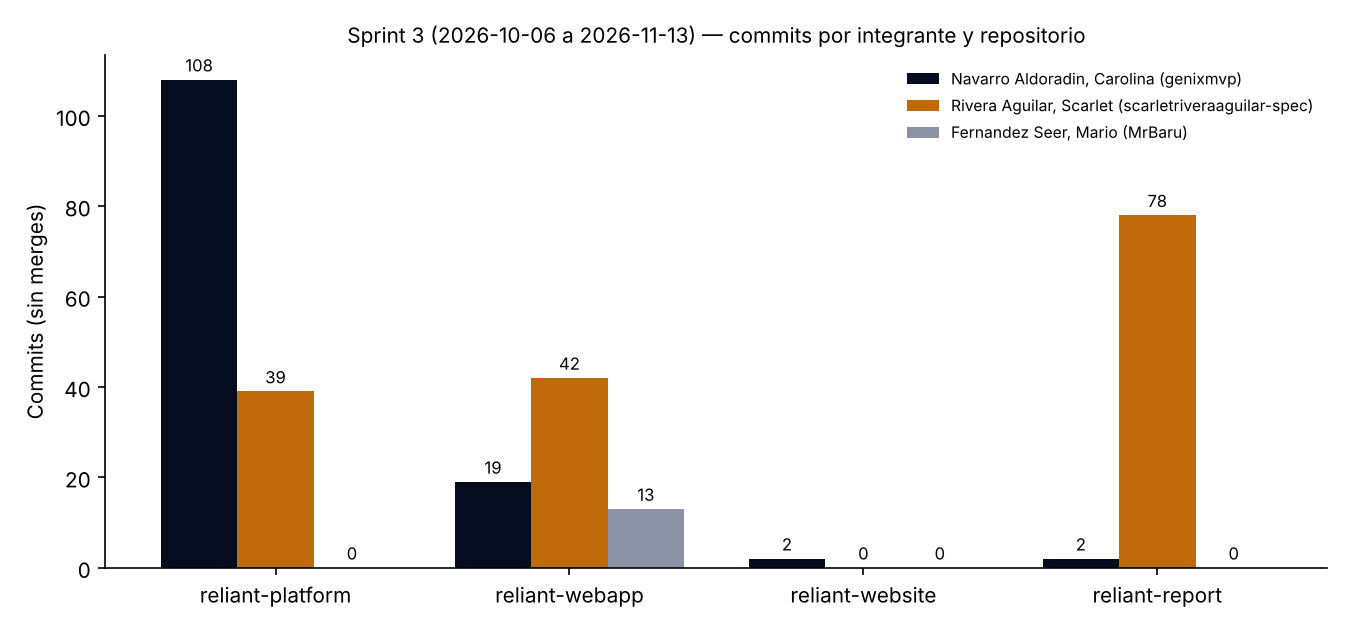
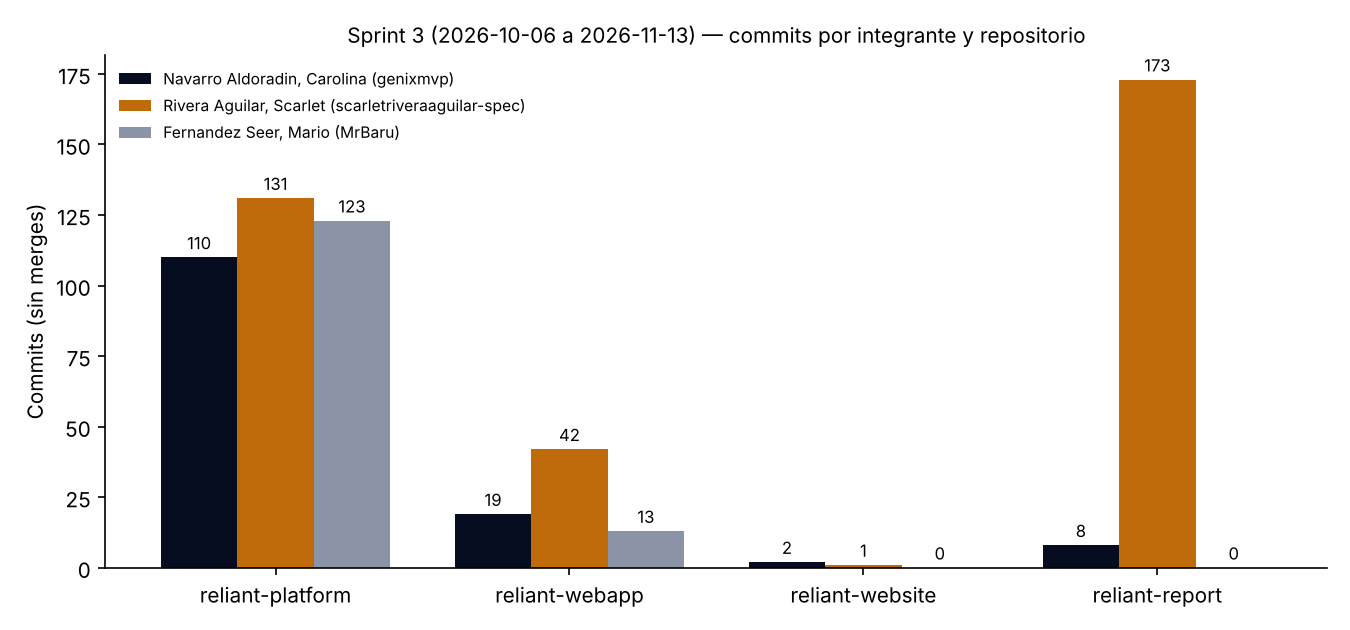
docs(report): include the whole team's Sprint 3 commits in development evidence and collaboration insights

diff --git a/README.md b/README.md
@@ -4161,7 +4161,7 @@ En esta sección se presentan los commits realizados durante el Sprint 3 en los 
 
 | Repositorio | Release del Sprint 3 | Etiqueta | Ramas |
 |---|---|---|---|
-| `reliant-platform` | 1.0.0 — primera versión de los Web Services | `v1.0.0` | `main`, `develop`, `release/1.0.0`, 15 ramas `feature/*` |
+| `reliant-platform` | 1.0.0 — primera versión de los Web Services | `v1.0.0` | `main`, `develop`, `release/1.0.0`, `hotfix/azure-workflow`, 15 ramas `feature/*` (con pull requests de los tres integrantes) |
 | `reliant-webapp` | 2.0.0 — Web Application conectada a los Web Services | `2.0.0` | `main`, `develop`, `release/2.0.0`, 8 ramas `feature/*`, `fix/footer-overlap` |
 | `reliant-website` | 2.1.0 — rediseño del Landing Page | `2.1.0` | `main`, `develop`, `release/2.1.0`, `feature/update-landing-page`, `feature/merge-scarlet-design` |
 
@@ -4261,6 +4261,182 @@ En esta sección se presentan los commits realizados durante el Sprint 3 en los 
 | reliant-platform | develop | ca526ee | feat(equipment): add hvof system resource from entity assembler. |  | 2026-11-06 |
 | reliant-platform | develop | 91e8034 | feat(equipment): add hvof systems controller. |  | 2026-11-06 |
 | reliant-platform | develop | 2f6e9f0 | Complete HVOF subsystems and controllers integration |  | 2026-11-06 |
+| reliant-platform | develop | 1d71e59 | feat(iam): add roles enum, role entity, seed roles command and role repository port. |  | 2026-11-07 |
+| reliant-platform | develop | ee99048 | feat(iam): add roles enum, role entity, seed roles command and role repository port. |  | 2026-11-07 |
+| reliant-platform | develop | ae1b48c | feat(iam): add role persistence repository. |  | 2026-11-07 |
+| reliant-platform | develop | 82832a1 | feat(iam): add role repository implementation. |  | 2026-11-07 |
+| reliant-platform | develop | 7b53753 | feat(iam): add role command service. |  | 2026-11-07 |
+| reliant-platform | develop | 654106c | feat(iam): add role command service implementation. |  | 2026-11-07 |
+| reliant-platform | develop | f10695c | feat(iam): add application ready event handler. |  | 2026-11-07 |
+| reliant-platform | develop | 52e5842 | build: add spring security crypto dependency. |  | 2026-11-07 |
+| reliant-platform | develop | c31cfab | feat(iam): add hashing service. |  | 2026-11-07 |
+| reliant-platform | develop | 7829c6c | feat(iam): add hashing service implementation. |  | 2026-11-07 |
+| reliant-platform | develop | fd6512f | feat(iam): add email address value object. |  | 2026-11-07 |
+| reliant-platform | develop | 427b56c | feat(iam): add ruc value object. |  | 2026-11-07 |
+| reliant-platform | develop | ace63a7 | feat(iam): add organization type value object. |  | 2026-11-07 |
+| reliant-platform | develop | 3180903 | feat(iam): add organization status value object. |  | 2026-11-07 |
+| reliant-platform | develop | ce31673 | feat(iam): add user status value object. |  | 2026-11-07 |
+| reliant-platform | develop | 3100856 | feat(iam): add organization registered event. |  | 2026-11-07 |
+| reliant-platform | develop | 71ccd03 | feat(iam): add user signed up event. |  | 2026-11-07 |
+| reliant-platform | develop | bb1a1ec | feat(iam): add organization aggregate. |  | 2026-11-07 |
+| reliant-platform | develop | 905843e | feat(iam): add user aggregate. |  | 2026-11-07 |
+| reliant-platform | develop | 5a6462b | feat(iam): add sign up command. |  | 2026-11-07 |
+| reliant-platform | develop | 3e64f7c | feat(iam): add organization repository port. |  | 2026-11-07 |
+| reliant-platform | develop | 86a32c3 | feat(iam): add user repository port. |  | 2026-11-07 |
+| reliant-platform | develop | c4c5723 | feat(iam): add email address persistence converter. |  | 2026-11-07 |
+| reliant-platform | develop | df937d1 | feat(iam): add ruc persistence converter. |  | 2026-11-07 |
+| reliant-platform | develop | c0fa06c | feat(iam): add organization persistence entity. |  | 2026-11-07 |
+| reliant-platform | develop | 74cdbac | feat(iam): add user persistence entity. |  | 2026-11-07 |
+| reliant-platform | develop | 39dae1b | feat(iam): add organization persistence assembler. |  | 2026-11-07 |
+| reliant-platform | develop | 2b3fb3f | feat(iam): add user persistence assembler. |  | 2026-11-07 |
+| reliant-platform | develop | b3b486b | feat(iam): add organization persistence repository. |  | 2026-11-07 |
+| reliant-platform | develop | ffe7d41 | feat(iam): add user persistence repository. |  | 2026-11-07 |
+| reliant-platform | develop | ad43892 | feat(iam): add organization repository implementation. |  | 2026-11-07 |
+| reliant-platform | develop | 2067e9a | feat(iam): add user repository implementation. |  | 2026-11-07 |
+| reliant-platform | develop | 1e59b08 | feat(iam): add user command service. |  | 2026-11-07 |
+| reliant-platform | develop | e1c46b8 | feat(iam): add user command service implementation. |  | 2026-11-07 |
+| reliant-platform | develop | 05b3f99 | feat(iam): add sign up resource. |  | 2026-11-07 |
+| reliant-platform | develop | a1ff53e | feat(iam): add role resource. |  | 2026-11-07 |
+| reliant-platform | develop | 4307e0b | feat(iam): add user resource. |  | 2026-11-07 |
+| reliant-platform | develop | 5b7c511 | feat(iam): add sign up command resource assembler. |  | 2026-11-07 |
+| reliant-platform | develop | d4a1fbe | feat(iam): add role resource assembler. |  | 2026-11-07 |
+| reliant-platform | develop | a3854bf | feat(iam): add user resource assembler. |  | 2026-11-07 |
+| reliant-platform | develop | f78b287 | feat(iam): add application ready event handler. |  | 2026-11-07 |
+| reliant-platform | develop | d1d3f2c | feat(iam): add users controller. |  | 2026-11-07 |
+| reliant-platform | develop | 81bbb52 | feat(iam): add sign up message keys. |  | 2026-11-07 |
+| reliant-platform | develop | a8a4085 | feat(iam): add sign up Spanish message keys. |  | 2026-11-07 |
+| reliant-platform | develop | 81b731d | feat(iam): add sign up Spanish message keys. |  | 2026-11-07 |
+| reliant-platform | develop | 242fdd5 | feat(iam): add get all roles query. |  | 2026-11-07 |
+| reliant-platform | develop | b635865 | feat(iam): add role query service. |  | 2026-11-07 |
+| reliant-platform | develop | bc68a1a | feat(iam): add role query service implementation. |  | 2026-11-07 |
+| reliant-platform | develop | 90b03b5 | feat(iam): add roles controller. |  | 2026-11-07 |
+| reliant-platform | develop | 6d5d0c3 | build: add commons lang3 dependency. |  | 2026-11-07 |
+| reliant-platform | develop | 45bbeba | feat(iam): add token service. |  | 2026-11-07 |
+| reliant-platform | develop | 72fe2ae | feat(iam): add token service implementation. |  | 2026-11-07 |
+| reliant-platform | develop | cf59b89 | feat(iam): add sign in command. |  | 2026-11-07 |
+| reliant-platform | develop | ef9158e | feat(iam): add sign in command to user command service. |  | 2026-11-07 |
+| reliant-platform | develop | 738aba9 | feat(iam): add sign in command handling. |  | 2026-11-07 |
+| reliant-platform | develop | 2907da3 | feat(iam): add get organization by id query. |  | 2026-11-07 |
+| reliant-platform | develop | b5c895a | feat(iam): add organization query service interface. |  | 2026-11-07 |
+| reliant-platform | develop | 8797a15 | feat(iam): add organization query service implementation. |  | 2026-11-07 |
+| reliant-platform | develop | 80d5958 | feat(iam): add sign in resource. |  | 2026-11-07 |
+| reliant-platform | develop | cb751ea | feat(iam): add role id resource. |  | 2026-11-07 |
+| reliant-platform | develop | 8c4b9e0 | feat(iam): add authenticated user resource. |  | 2026-11-07 |
+| reliant-platform | develop | 812c269 | feat(iam): add sign in command assembler. |  | 2026-11-07 |
+| reliant-platform | develop | f2770db | feat(iam): add authenticated user resource assembler. |  | 2026-11-07 |
+| reliant-platform | develop | a235340 | feat(iam): add tokens controller. |  | 2026-11-07 |
+| reliant-platform | develop | ec6e89d | feat(iam): add get all users by organization query. |  | 2026-11-07 |
+| reliant-platform | develop | 61b4e61 | feat(iam): add get user by id query. |  | 2026-11-07 |
+| reliant-platform | develop | db33fbb | feat(iam): add get user by email query. |  | 2026-11-07 |
+| reliant-platform | develop | d8527ee | feat(iam): add assign roles to user command. |  | 2026-11-07 |
+| reliant-platform | develop | 3b4d198 | feat(iam): add user query service interface. |  | 2026-11-07 |
+| reliant-platform | develop | 3fd2eb5 | feat(iam): add user query service implementation. |  | 2026-11-07 |
+| reliant-platform | develop | fde2576 | feat(iam): add assign roles command handling. |  | 2026-11-07 |
+| reliant-platform | develop | 935b025 | feat(iam): add assign roles resource and assembler. |  | 2026-11-07 |
+| reliant-platform | develop | 9bdb189 | feat(iam): add list, get by id and assign roles endpoints to users controller. |  | 2026-11-07 |
+| reliant-platform | develop | 32da629 | feat(iam): add user not found message keys. |  | 2026-11-07 |
+| reliant-platform | develop | 29694b6 | build: enable spring security starter. |  | 2026-11-07 |
+| reliant-platform | develop | 7a3a137 | build: enable spring security starter. |  | 2026-11-07 |
+| reliant-platform | develop | cb5c1af | feat(shared): enable bearer auth security scheme in openapi configuration. |  | 2026-11-07 |
+| reliant-platform | develop | b878054 | feat(iam): add bcrypt hashing service contract. |  | 2026-11-07 |
+| reliant-platform | develop | 70b449e | feat(iam): add bearer token service contract and http helpers. |  | 2026-11-07 |
+| reliant-platform | develop | 8767aa5 | feat(iam): add user details model and service. |  | 2026-11-07 |
+| reliant-platform | develop | abe26a6 | feat(iam): add user details model and service. |  | 2026-11-07 |
+| reliant-platform | develop | 937103a | feat(iam): add authentication token builder and unauthorized entry point. |  | 2026-11-07 |
+| reliant-platform | develop | a0b057f | feat(iam): add bearer authorization request filter. |  | 2026-11-07 |
+| reliant-platform | develop | 0e2cc80 | feat(iam): add web security configuration. |  | 2026-11-07 |
+| reliant-platform | develop | 613889e | feat(iam): require bearer token on protected endpoints and admin role on user management. |  | 2026-11-07 |
+| reliant-platform | develop | c3f87fa | feat(iam): require bearer token on protected endpoints and admin role on user management. |  | 2026-11-07 |
+| reliant-platform | develop | e2f98a9 | feat(iam): require bearer token on protected endpoints and admin role on user management. |  | 2026-11-07 |
+| reliant-platform | develop | 57f71aa | feat(iam): add authenticated user endpoint. |  | 2026-11-07 |
+| reliant-platform | develop | cf77900 | feat(shared): add current user context contract. |  | 2026-11-07 |
+| reliant-platform | develop | d6d6291 | feat(iam): add current user provider as acl for other bounded contexts. |  | 2026-11-07 |
+| reliant-platform | develop | ce56a28 | feat(shared): map access denied to a 403 problem detail. |  | 2026-11-07 |
+| reliant-platform | develop | 3fd0caa | fix(shared): finalize access denied exception handling. |  | 2026-11-07 |
+| reliant-platform | develop | b7f8b54 | feat(traceability): add customer RUC value object |  | 2026-11-08 |
+| reliant-platform | develop | 2f859af | feat(traceability): add customer ID value object |  | 2026-11-08 |
+| reliant-platform | develop | e8eaf27 | feat(traceability): add customer registration command |  | 2026-11-08 |
+| reliant-platform | develop | 61a7fc7 | feat(traceability): add customer update command |  | 2026-11-08 |
+| reliant-platform | develop | 432a036 | feat(traceability): add customer aggregate and registration event |  | 2026-11-08 |
+| reliant-platform | develop | 7dbff73 | feat(traceability): add customer lookup query |  | 2026-11-08 |
+| reliant-platform | develop | 0a3c578 | feat(traceability): add supplier customer query |  | 2026-11-08 |
+| reliant-platform | develop | 70abcf1 | feat(traceability): add linked asset owner customer query |  | 2026-11-08 |
+| reliant-platform | develop | ac34649 | feat(traceability): add customer repository port |  | 2026-11-08 |
+| reliant-platform | develop | 3e7ae6f | feat(traceability): add RUC persistence converter |  | 2026-11-08 |
+| reliant-platform | develop | f8dbb82 | feat(traceability): add customer ID persistence converter |  | 2026-11-08 |
+| reliant-platform | develop | edd503b | feat(traceability): add customer persistence entity |  | 2026-11-08 |
+| reliant-platform | develop | 01cfefb | feat(traceability): add customer persistence assembler |  | 2026-11-08 |
+| reliant-platform | develop | 2322000 | feat(traceability): add customer JPA repository |  | 2026-11-08 |
+| reliant-platform | develop | 85bba79 | feat(traceability): add customer repository adapter |  | 2026-11-08 |
+| reliant-platform | develop | ab4bcf7 | feat(traceability): add customer query service |  | 2026-11-08 |
+| reliant-platform | develop | 57e484f | feat(traceability): implement customer query service |  | 2026-11-08 |
+| reliant-platform | develop | d7b9a60 | feat(traceability): add customer command service |  | 2026-11-08 |
+| reliant-platform | develop | d29249b | feat(traceability): implement customer command service |  | 2026-11-08 |
+| reliant-platform | develop | f9cc85f | feat(traceability): add customer registration request |  | 2026-11-08 |
+| reliant-platform | develop | fee1cc5 | feat(traceability): add customer update request |  | 2026-11-08 |
+| reliant-platform | develop | 3d8c02e | feat(traceability): add customer response resource |  | 2026-11-08 |
+| reliant-platform | develop | d1cabf3 | feat(traceability): add customer registration assembler |  | 2026-11-08 |
+| reliant-platform | develop | 88bfa04 | feat(traceability): add customer update assembler |  | 2026-11-08 |
+| reliant-platform | develop | 7fc694c | feat(traceability): add customer response assembler |  | 2026-11-08 |
+| reliant-platform | develop | 13ec9a9 | feat(traceability): add customers REST controller |  | 2026-11-08 |
+| reliant-platform | develop | 6cb8562 | feat(traceability): add English customer messages |  | 2026-11-08 |
+| reliant-platform | develop | 3e3390b | feat(traceability): add Spanish customer messages |  | 2026-11-08 |
+| reliant-platform | develop | 412b254 | fix(traceability): correct RUC value object syntax |  | 2026-11-08 |
+| reliant-platform | develop | ff28054 | feat(traceability): add recovered component types |  | 2026-11-08 |
+| reliant-platform | develop | bce2e8c | feat(traceability): add recovered component statuses |  | 2026-11-08 |
+| reliant-platform | develop | d24d850 | feat(traceability): add component registration command |  | 2026-11-08 |
+| reliant-platform | develop | 7347fd8 | feat(traceability): add recovered component aggregate and registration event |  | 2026-11-08 |
+| reliant-platform | develop | 158deec | feat(traceability): add component lookup query |  | 2026-11-08 |
+| reliant-platform | develop | 3d0ab71 | feat(traceability): add components by customer query |  | 2026-11-08 |
+| reliant-platform | develop | 610f007 | feat(traceability): add recovered component repository port |  | 2026-11-08 |
+| reliant-platform | develop | c203fd6 | feat(traceability): add recovered component persistence entity |  | 2026-11-08 |
+| reliant-platform | develop | 4a5552c | feat(traceability): add recovered component persistence assembler |  | 2026-11-08 |
+| reliant-platform | develop | 32c198e | feat(traceability): add recovered component JPA repository |  | 2026-11-08 |
+| reliant-platform | develop | 65706c9 | feat(traceability): add recovered component repository adapter |  | 2026-11-08 |
+| reliant-platform | develop | 626485f | feat(traceability): add component command service |  | 2026-11-08 |
+| reliant-platform | develop | e78e9e2 | feat(traceability): implement component command service |  | 2026-11-08 |
+| reliant-platform | develop | 6eb1edb | feat(traceability): add component query service |  | 2026-11-08 |
+| reliant-platform | develop | 4fa7e52 | feat(traceability): implement component query service |  | 2026-11-08 |
+| reliant-platform | develop | 12a903d | feat(traceability): add component registration request |  | 2026-11-08 |
+| reliant-platform | develop | 6d227d4 | feat(traceability): add component response resource |  | 2026-11-08 |
+| reliant-platform | develop | 20a73c6 | feat(traceability): add component registration assembler |  | 2026-11-08 |
+| reliant-platform | develop | 3c481ff | feat(traceability): add component response assembler |  | 2026-11-08 |
+| reliant-platform | develop | da23cfc | feat(traceability): add components REST controller |  | 2026-11-08 |
+| reliant-platform | develop | febd1df | feat(traceability): add localized component error messages |  | 2026-11-08 |
+| reliant-platform | develop | 8797544 | feat(traceability): add work order number value object |  | 2026-11-10 |
+| reliant-platform | develop | 05080a9 | feat(traceability): add component ID value object |  | 2026-11-10 |
+| reliant-platform | develop | 43d08a7 | feat(traceability): add recuperation statuses |  | 2026-11-10 |
+| reliant-platform | develop | 0bb7446 | feat(traceability): add open recuperation command |  | 2026-11-10 |
+| reliant-platform | develop | d8c6c7a | feat(traceability): add complete recuperation command |  | 2026-11-10 |
+| reliant-platform | develop | 6c4ef12 | feat(traceability): add link session to recuperation command |  | 2026-11-10 |
+| reliant-platform | develop | f04bae0 | feat(traceability): add recuperation aggregate and lifecycle events |  | 2026-11-10 |
+| reliant-platform | develop | ebac156 | feat(traceability): add recuperation lookup query |  | 2026-11-10 |
+| reliant-platform | develop | 8c8b95c | feat(traceability): add supplier recuperations query |  | 2026-11-10 |
+| reliant-platform | develop | 1e32f81 | feat(traceability): add customer recuperations query |  | 2026-11-10 |
+| reliant-platform | develop | 2bdc0ce | feat(traceability): add recuperation repository port |  | 2026-11-10 |
+| reliant-platform | develop | a6f0e74 | feat(traceability): add work order number persistence converter |  | 2026-11-10 |
+| reliant-platform | develop | 0bc6ce2 | feat(traceability): add component ID persistence converter |  | 2026-11-10 |
+| reliant-platform | develop | 4b54282 | feat(traceability): add recuperation persistence entity |  | 2026-11-10 |
+| reliant-platform | develop | 4b5bdc5 | feat(traceability): add recuperation persistence assembler |  | 2026-11-10 |
+| reliant-platform | develop | b2f2590 | feat(traceability): add recuperation JPA repository |  | 2026-11-10 |
+| reliant-platform | develop | 9160035 | feat(traceability): add recuperation repository adapter |  | 2026-11-10 |
+| reliant-platform | develop | 1393d10 | feat(traceability): add recuperation command service |  | 2026-11-10 |
+| reliant-platform | develop | 2cfbe0f | feat(traceability): implement recuperation command service |  | 2026-11-10 |
+| reliant-platform | develop | 93ede86 | feat(traceability): add recuperation query service |  | 2026-11-10 |
+| reliant-platform | develop | 7a3ab4b | feat(traceability): implement recuperation query service |  | 2026-11-10 |
+| reliant-platform | develop | b50a375 | feat(traceability): add traceability context facade |  | 2026-11-10 |
+| reliant-platform | develop | fa582bc | feat(traceability): implement traceability context facade |  | 2026-11-10 |
+| reliant-platform | develop | ef67cfb | feat(traceability): add open recuperation request |  | 2026-11-10 |
+| reliant-platform | develop | 9bbf81f | feat(traceability): add linked session resource |  | 2026-11-10 |
+| reliant-platform | develop | 4725cf0 | feat(traceability): add recuperation response resource |  | 2026-11-10 |
+| reliant-platform | develop | f3975af | feat(traceability): add open recuperation assembler |  | 2026-11-10 |
+| reliant-platform | develop | 6e5bdb5 | feat(traceability): add recuperation response assembler |  | 2026-11-10 |
+| reliant-platform | develop | abde862 | feat(traceability): add recuperations REST controller |  | 2026-11-10 |
+| reliant-platform | develop | 10a77e8 | feat(traceability): add localized recuperation error messages |  | 2026-11-10 |
+| reliant-platform | develop | 550fee0 | feat(equipment): add recipe band snapshot |  | 2026-11-11 |
+| reliant-platform | develop | 7676db7 | feat(equipment): add equipment context facade |  | 2026-11-11 |
+| reliant-platform | develop | 3923efe | feat(equipment): implement equipment context facade |  | 2026-11-11 |
+| reliant-platform | develop | 433a885 | fix(equipment): use unit category conversion in context facade |  | 2026-11-11 |
 | reliant-platform | develop | e769426 | chore(equipment): keep the datasource in the dev profile and drop the review notes. |  | 2026-11-11 |
 | reliant-platform | develop | 7832aa2 | build: add spring security crypto dependency. |  | 2026-11-11 |
 | reliant-platform | develop | ff90eb7 | feat(iam): add organization, user and role domain model with sign-up and seed roles commands. |  | 2026-11-11 |
@@ -4314,8 +4490,49 @@ En esta sección se presentan los commits realizados durante el Sprint 3 en los 
 | reliant-platform | develop | 896afb2 | feat(reporting): add JPA persistence for report templates and generated reports |  | 2026-11-12 |
 | reliant-platform | develop | 27e8634 | feat(reporting): add report template and generated report services with default templates |  | 2026-11-12 |
 | reliant-platform | develop | ed08f36 | feat(reporting): expose report templates and generated reports endpoints |  | 2026-11-12 |
+| reliant-platform | develop | b15afc2 | feat(processmonitoring): add spray session value objects and recipe band classification |  | 2026-11-12 |
+| reliant-platform | develop | 843d756 | feat(processmonitoring): add spray pass and process reading entities |  | 2026-11-12 |
+| reliant-platform | develop | 234a562 | feat(processmonitoring): add spray session and reading commands |  | 2026-11-12 |
+| reliant-platform | develop | d12b18e | feat(processmonitoring): add spray session aggregate and domain events |  | 2026-11-12 |
+| reliant-platform | develop | 20b9a21 | feat(processmonitoring): add spray session queries and repository ports |  | 2026-11-12 |
+| reliant-platform | develop | 24e5433 | feat(processmonitoring): add HVOF system ID persistence converter |  | 2026-11-12 |
+| reliant-platform | develop | 4e39d03 | feat(processmonitoring): add recuperation ID persistence converter |  | 2026-11-12 |
+| reliant-platform | develop | 81c2661 | feat(processmonitoring): map recipe band snapshots for persistence |  | 2026-11-12 |
+| reliant-platform | develop | 69e3966 | feat(processmonitoring): map spray session and pass entities |  | 2026-11-12 |
+| reliant-platform | develop | cb93547 | feat(processmonitoring): map process reading entity |  | 2026-11-12 |
+| reliant-platform | develop | 3cac321 | feat(processmonitoring): map spray sessions and passes between domain and JPA |  | 2026-11-12 |
+| reliant-platform | develop | de1c4f5 | feat(processmonitoring): map process readings between domain and JPA |  | 2026-11-12 |
+| reliant-platform | develop | 913e879 | feat(processmonitoring): add Spring Data repositories for sessions and readings |  | 2026-11-12 |
+| reliant-platform | develop | 311c48e | feat(processmonitoring): implement spray session repository |  | 2026-11-12 |
+| reliant-platform | develop | 0feb4bd | feat(processmonitoring): implement process reading repository |  | 2026-11-12 |
+| reliant-platform | develop | 2e888ab | feat(processmonitoring): add equipment integration service |  | 2026-11-12 |
+| reliant-platform | develop | 08d3c9d | feat(processmonitoring): add traceability integration service |  | 2026-11-12 |
+| reliant-platform | develop | f3e2192 | feat(processmonitoring): add out-of-band reading integration event |  | 2026-11-12 |
+| reliant-platform | develop | 5eeb901 | feat(processmonitoring): publish out-of-band reading integration event |  | 2026-11-12 |
+| reliant-platform | develop | 72e89bb | feat(processmonitoring): add spray session command service |  | 2026-11-12 |
+| reliant-platform | develop | 54c08a2 | feat(processmonitoring): implement spray session commands |  | 2026-11-12 |
+| reliant-platform | develop | bb590c9 | feat(processmonitoring): add spray session query service |  | 2026-11-12 |
+| reliant-platform | develop | 696c4a9 | feat(processmonitoring): implement spray session queries |  | 2026-11-12 |
+| reliant-platform | develop | 06eaa46 | feat(processmonitoring): add start spray session request |  | 2026-11-12 |
+| reliant-platform | develop | 03be963 | feat(processmonitoring): add abort spray session request |  | 2026-11-12 |
+| reliant-platform | develop | dea377f | feat(processmonitoring): add spray session response |  | 2026-11-12 |
+| reliant-platform | develop | 11f848d | feat(processmonitoring): add process reading request |  | 2026-11-12 |
+| reliant-platform | develop | 2938141 | feat(processmonitoring): add process reading response |  | 2026-11-12 |
+| reliant-platform | develop | ac439f0 | feat(processmonitoring): add register spray pass request |  | 2026-11-12 |
+| reliant-platform | develop | 7df2199 | feat(processmonitoring): add spray pass response |  | 2026-11-12 |
+| reliant-platform | develop | 04e530d | feat(processmonitoring): add deviation counts response |  | 2026-11-12 |
+| reliant-platform | develop | fda1c49 | feat(processmonitoring): map start spray session requests |  | 2026-11-12 |
+| reliant-platform | develop | dc9bf4f | feat(processmonitoring): map spray session responses |  | 2026-11-12 |
+| reliant-platform | develop | 38c07e8 | feat(processmonitoring): map process reading ingestion requests |  | 2026-11-12 |
+| reliant-platform | develop | d0719d0 | feat(processmonitoring): map process reading responses |  | 2026-11-12 |
+| reliant-platform | develop | 7d35195 | feat(processmonitoring): map register spray pass requests |  | 2026-11-12 |
+| reliant-platform | develop | 127758b | feat(processmonitoring): map spray pass responses |  | 2026-11-12 |
+| reliant-platform | develop | 3d43f10 | feat(processmonitoring): expose spray session monitoring endpoints |  | 2026-11-12 |
+| reliant-platform | develop | e9e0215 | feat(processmonitoring): add localized spray session error messages |  | 2026-11-12 |
 | reliant-platform | develop | 62ad123 | chore(release): 1.0.0 with production profile for Azure and updated documentation |  | 2026-11-13 |
 | reliant-platform | develop | 188fced | docs: add the Azure App Service deployment guide |  | 2026-11-13 |
+| reliant-platform | develop | 2903385 | Add or update the Azure App Service build and deployment workflow config |  | 2026-11-13 |
+| reliant-platform | develop | d380070 | ci: skip tests in the Azure build workflow and update setup-java |  | 2026-11-13 |
 
 **Frontend Web Application — `reliant-webapp`**
 
@@ -4509,7 +4726,7 @@ En el Sprint 3 se desplegaron en Microsoft Azure los Web Services (Web App `reli
 
 #### 5.2.3.8. Team Collaboration Insights during Sprint.
 
-Durante el Sprint 3 el trabajo se distribuyó según la matriz LACX de la sección 5.2.3.2 y, a diferencia del Sprint 2, los tres integrantes registraron commits en los repositorios de producto. Navarro Aldoradin, Carolina Celeste construyó los bounded contexts IAM, Traceability, Process Monitoring, Fault Diagnosis y Reporting de los Web Services, la seguridad con JWT, el perfil de producción y la guía de despliegue, y en la Web Application la conexión al platform, el diagnóstico de fallas, el Quick Start, el reporting con PDF y el análisis de sesión, además de integrar el rediseño del Landing Page. Rivera Aguilar, Scarlet Josefina implementó en los Web Services las recetas, los subsistemas y los controladores del bounded context Equipment, y en la Web Application el tema visual de Reliant, la navegación lateral, los gráficos de tendencia y el tablero con preferencias de usuario; además diseñó los wireframes y mock-ups del nuevo Landing Page y actualizó el informe con ellos. Fernandez Seer, Mario Alonso implementó el reporte de sesión con exportación a CSV y las correcciones del sondeo de lecturas en Process Monitoring.
+Durante el Sprint 3 el trabajo se distribuyó según la matriz LACX de la sección 5.2.3.2 y, a diferencia del Sprint 2, los tres integrantes registraron commits en todos los repositorios de producto. Navarro Aldoradin, Carolina Celeste construyó los bounded contexts IAM, Traceability, Process Monitoring, Fault Diagnosis y Reporting de los Web Services, la seguridad con JWT, el perfil de producción, la guía y el despliegue en Azure, y en la Web Application la conexión al platform, el diagnóstico de fallas, el Quick Start, el reporting con PDF y el análisis de sesión, además de integrar el rediseño del Landing Page. Rivera Aguilar, Scarlet Josefina implementó en los Web Services las recetas, los subsistemas y los controladores del bounded context Equipment y los mensajes localizados de Traceability, y en la Web Application el tema visual de Reliant, la navegación lateral, los gráficos de tendencia y el tablero con preferencias de usuario; además diseñó los wireframes y mock-ups del nuevo Landing Page y actualizó el informe con ellos y con las evidencias de las entrevistas. Fernandez Seer, Mario Alonso implementó en los Web Services los mapeos de requests y responses y los mensajes localizados de Process Monitoring y Traceability (integrados mediante pull requests a `develop`), y en la Web Application el reporte de sesión con exportación a CSV y las correcciones del sondeo de lecturas. Las ramas `feature/*` de los Web Services fueron trabajadas por más de un integrante y se integraron en `develop` mediante pull requests y merges, lo que explica que los tres aparezcan como contribuidores del mismo bounded context.
 
 El gráfico resume los commits (sin merges) por integrante y repositorio registrados en las ramas `develop` entre el 6 de octubre y el 13 de noviembre de 2026:
 
@@ -4517,14 +4734,16 @@ El gráfico resume los commits (sin merges) por integrante y repositorio registr
 
 | Repositorio | Contribuidor (usuario de GitHub) | Commits del Sprint 3 |
 |---|---|---|
-| `reliant-platform` | genixmvp | 108 |
-| `reliant-platform` | scarletriveraaguilar-spec | 39 |
+| `reliant-platform` | scarletriveraaguilar-spec | 131 |
+| `reliant-platform` | MrBaru | 123 |
+| `reliant-platform` | genixmvp | 110 |
 | `reliant-webapp` | scarletriveraaguilar-spec | 42 |
 | `reliant-webapp` | genixmvp | 19 |
 | `reliant-webapp` | MrBaru | 13 |
 | `reliant-website` | genixmvp | 2 |
-| `reliant-report` | scarletriveraaguilar-spec | 78 |
-| `reliant-report` | genixmvp | 2 |
+| `reliant-website` | scarletriveraaguilar-spec | 1 |
+| `reliant-report` | scarletriveraaguilar-spec | 173 |
+| `reliant-report` | genixmvp | 8 |
 
 Las capturas de Insights → Contributors de GitHub para cada repositorio se incluyen a continuación:
 
